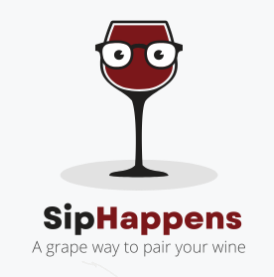
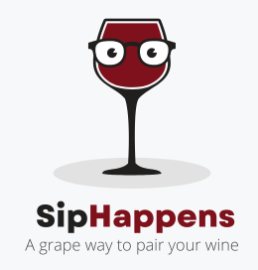
style portfolio section

Changed region(s): [[0.093, 0.7111, 0.9302, 0.9481], [0.3411, 0.0593, 0.6822, 0.3852], [0.3721, 0.3556, 0.6202, 0.6519]]

diff --git a/src/components/Projects/index.js b/src/components/Projects/index.js
@@ -1,30 +1,29 @@
 import React from "react";
 import ProjectCard from "../Card";
-import sipHappens from "../../assets/projects/siphappens2.png";
 
 const Projects = () => {
   const projects = [
     {
       title: "Sip Happens",
-      subtitle: "Node.js, Sequelize, Heroku, Express-Session",
+      subtitle: "NODE.JS. SEQUELIZE, HEROKU, EXPRESS-SESSION",
       description:
         "A wine and food pairing app that allows the user to upvote or comment on the recommended pairings once logged in. Created by a team of 4 people.",
       link: "https://sip-happens-unc.herokuapp.com/",
       github: "https://github.com/nmsiegel1/Sip-Happens",
-      photo: sipHappens,
+      photo: require("../../assets/projects/sipHappens.png"),
     },
     {
       title: "The Tech Blog",
-      subtitle: "Node.js, Sequelize, Heroku, Express-Session",
+      subtitle: "NODE.JS, SEQUELIZE, HEROKU, EXPRESS-SESSION",
       description:
         "A full stack blog application for developers to write posts about the tech world",
       link: "https://ns-tech-blog.herokuapp.com/",
       github: "https://github.com/nmsiegel1/NS-Tech-Blog",
-      photo: require("../../assets/projects/tech-blog.png"),
+      photo: require("../../assets/projects/tech2.png"),
     },
     {
       title: "What's For Dinner?",
-      subtitle: "HTML, CSS, JavaScript, Bulma, Third Party APIs",
+      subtitle: "HTML, CSS, JAVASCRIPT, BULMA, THIRD PARTY API'S",
       description:
         "A recipe finder app made with a third party API created by a team of four. Includes a search page, random recipe generator and favorites page.",
       link: "https://nmsiegel1.github.io/Whats-for-dinner/",
@@ -33,7 +32,7 @@ const Projects = () => {
     },
     {
       title: "Code Quiz",
-      subtitle: "HTML, CSS, JavaScript",
+      subtitle: "HTML, CSS, JAVASCRIPT",
       description:
         "A short quiz that tests a users knowlege about coding with a high scores page",
       link: "https://nmsiegel1.github.io/Code-Quiz/",
@@ -42,7 +41,7 @@ const Projects = () => {
     },
     {
       title: "Note Taker",
-      subtitle: "Node.js, Express.js",
+      subtitle: "NODE.JS, EXPRESS.JS",
       description:
         "An application that allows a user to write and save notes to organize their thoughts made with Express.js",
       link: "https://ns-note-taker22.herokuapp.com/",
@@ -51,7 +50,7 @@ const Projects = () => {
     },
     {
       title: "Employee Tracker",
-      subtitle: "Node.js, MySQL, Inquirer",
+      subtitle: "NODE.JS MYSQL, INQUIRER",
       description:
         "A command line application that a business could use to manage information about thier employees and help interface with their database",
       link: "https://watch.screencastify.com/v/vl3YIlClVFt94wSZQHN3",
@@ -62,9 +61,15 @@ const Projects = () => {
 
   return (
     <main>
-      {projects.map((project) => (
-        <ProjectCard project={project} />
-      ))}
+      <div className="container">
+        <div className="row">
+          {projects.map((project) => (
+            <div className="col-xs-12 col-lg-6">
+              <ProjectCard project={project} />
+            </div>
+          ))}
+        </div>
+      </div>
     </main>
   );
 };

diff --git a/src/components/Card/index.js b/src/components/Card/index.js
@@ -1,30 +1,41 @@
 import React from "react";
-import Card from "react-bootstrap/Card";
+import { Icon } from "@iconify/react";
 
 const ProjectCard = (props) => {
   const project = props.project;
   return (
-    <section className="" key={project.title}>
-      <div className="">
-        <a href={project.link} target="_blank" rel="noreferrer">
-          <div
-            className=""
-            style={{
-              backgroundImage: `url(${project.photo})`,
-            }}
-          ></div>
-        </a>
-      </div>
-      <div className="">
-        <h2>{project.title}</h2>
-        <h3>{project.subtitle}</h3>
-        <p>{project.description}</p>
-        <div className="">
-          <a href={project.github} target="_blank" rel="noreferrer">
-            <button type="button" className="button">
-              View Github Repository
-            </button>
+    <section className="container project-div" key={project.title}>
+      <div className="row">
+        <div className="photo-div">
+          <a href={project.link} target="_blank" rel="noreferrer">
+            <div
+              className="project-img"
+              style={{
+                backgroundImage: `url(${project.photo})`,
+              }}
+            ></div>
           </a>
+        </div>
+        <div className="project-text">
+          <h2>
+            {project.title}{" "}
+            <a
+              href={project.github}
+              target="_blank"
+              rel="noopener noreferrer"
+              // className="btn contact-icons"
+            >
+              <Icon
+                icon="akar-icons:github-fill"
+                color="#22577a"
+                width="40"
+                height="40"
+                className="github"
+              />
+            </a>
+          </h2>
+          <h3>{project.subtitle}</h3>
+          <p>{project.description}</p>
         </div>
       </div>
     </section>

diff --git a/src/components/Contact/index.js b/src/components/Contact/index.js
@@ -42,7 +42,9 @@ function Contact() {
     <section className="container">
       <div className="row">
         <div className="col-xs-12 col-md-8 mb-4">
-          <h2 className="p-4">Contact me</h2>
+          <h2 className="p-4">
+            <u>Contact me</u>
+          </h2>
           <Form
             id="contact-form"
             className="container mx-5"
@@ -87,10 +89,10 @@ function Contact() {
             </Button>
           </Form>
         </div>
-        <div className="col-xs-12 col-md-4 contact-div rounded d-flex align-self-center">
+        <div className="col-xs-12 col-md-4 contact-div rounded d-flex align-items-center">
           <p>
             I'd love to hear from you! I am eager to join a collaborative team
-            where I can continue honing my skills. Please fill out the form or
+            where I can continue honing my skills. Please fill out this form or
             email me at{" "}
             <a
               href="mailto: siegel.nina.m@gmail.com"
@@ -100,7 +102,7 @@ function Contact() {
             >
               siegel.nina.m@gmail.com
             </a>
-            . Want to see more? Visit{" "}
+            . Want to see more? Checkout my GitHub{" "}
             <a
               href="https://github.com/nmsiegel1"
               target="_blank"
@@ -109,7 +111,6 @@ function Contact() {
             >
               nmsiegel1
             </a>{" "}
-            on GitHub.
           </p>
         </div>
       </div>

diff --git a/src/components/Resume/index.js b/src/components/Resume/index.js
@@ -77,8 +77,10 @@ function Resume() {
   return (
     <section className="container">
       <div className="row p-4">
-        <h2 className="col-12 font-weight-bold">Resume:</h2>
-        <div className="col-12 d-flex justify-content-center border-bottom p-4">
+        <h2 className="col-12 font-weight-bold ">
+          <u>Resume</u>
+        </h2>
+        <div className="col-12 d-flex justify-content-center resume p-4">
           <a
             href="https://drive.google.com/file/d/1mNBA36PA3K8fG-fkU3Upj5m3bFQbkIGx/view?usp=sharing"
             target="_blank"
@@ -88,7 +90,7 @@ function Resume() {
               icon="cil:contact"
               onMouseOver={handleMouseOver}
               onMouseOut={handleMouseOut}
-              color="#49382e"
+              color="#2b2d2f"
               width="200"
               height="200"
             />
@@ -99,7 +101,9 @@ function Resume() {
       </div>
       <div>
         <div className="row p-4">
-          <h2 className="col-12 mb-4 font-weight-bold">Skills:</h2>
+          <h2 className="col-12 mb-4 font-weight-bold">
+            <u>Skills</u>
+          </h2>
           {skillIcons.map((icon) => (
             <div className="col-xm-12 col-sm-6 col-md-4 col-lg-2">
               <Icon icon={icon.src} color="#2b2d2f" width="75" height="75" />

diff --git a/src/index.css b/src/index.css
@@ -41,6 +41,11 @@ header {
 .profile-pic {
   width: 75%;
   height: 75%;
+  margin: 3rem;
+}
+
+.resume {
+  border-bottom: 3px solid #7dd181;
 }
 
 header h2 {
@@ -224,9 +229,62 @@ footer h2 {
 
 .contact-div {
   background-color: var(--hover-text);
-  width: 80%;
   height: 20%;
   padding: 5px;
+}
+
+.about-div {
+  background-color: var(--hover-text);
+  height: 50%;
+  padding: 5px;
+}
+
+.project-div {
+  background-color: #38a3a5;
+  flex: 100%;
+  box-shadow: rgba(0, 0, 0, 0.35) 0px 5px 15px;
+  display: flex;
+  flex-wrap: wrap;
+  justify-content: space-between;
+  margin: 20px 30px;
+}
+.photo-div,
+.project-text {
+  flex: 45%;
+}
+.project-img {
+  height: 400px;
+  border: var black solid 2px;
+  margin: 25px;
+}
+
+.project-text {
+  padding: 25px 25px;
+  display: flex;
+  flex-wrap: wrap;
+  flex-direction: column;
+  justify-content: center;
+  align-items: left;
+}
+
+.project-text h2 {
+  font-size: 35px;
+  padding-bottom: 1px;
+}
+
+.project-text h3 {
+  font-size: 15px;
+  padding-bottom: 15px;
+}
+
+.project-text p {
+  padding-bottom: 25px;
+  font-size: 15px;
+  line-height: 1.25;
+}
+.github:hover {
+  color: #339989;
+  box-shadow: 0 0 10px rgba(0, 0, 0, 0.2);
 }
 /* media query for 980px and smaller */
 @media screen and (min-width: 1300px) {

diff --git a/src/components/About/index.js b/src/components/About/index.js
@@ -8,13 +8,13 @@ function About() {
       <div className="row">
         <div className="col-xs-12 col-md-6">
           <img
-            className="profile-pic align-items-center"
+            className="profile-pic align-self-center rounded justify-content-center"
             src={profilePic}
             alt="Nina Siegel"
           ></img>
         </div>
-        <div className="col-xs-12 col-md-6">
-          <p m-2>
+        <div className="col-xs-12 col-md-6 about-div rounded d-flex align-self-center mt-5">
+          <p>
             Full stack web developer and chef experienced in making and shipping
             code and sandwiches in an agile environment. After nearly a decade
             in food service I'm transitioning into tech after completing a
